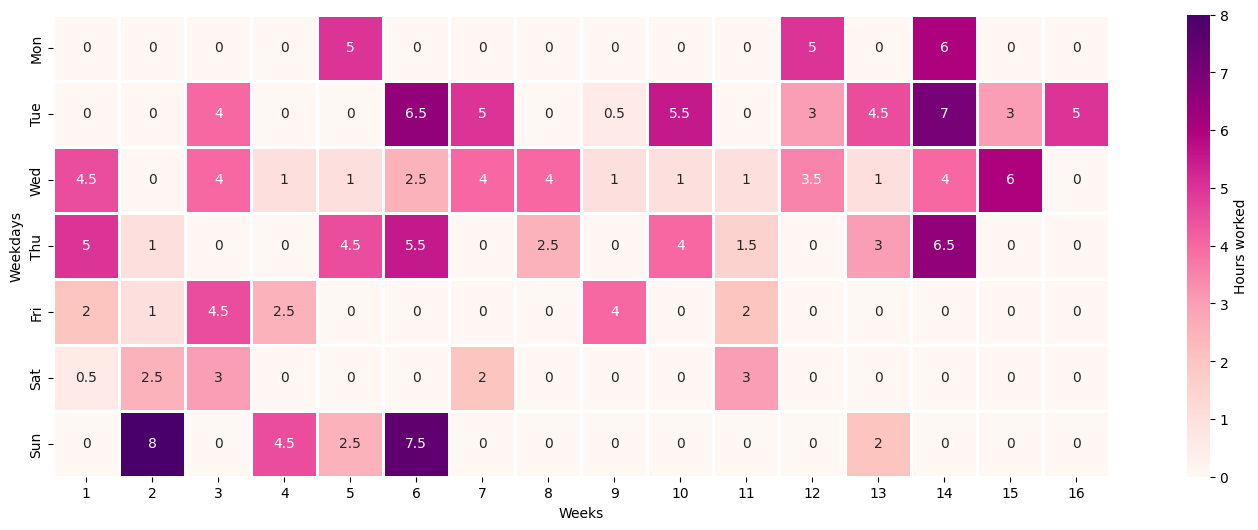
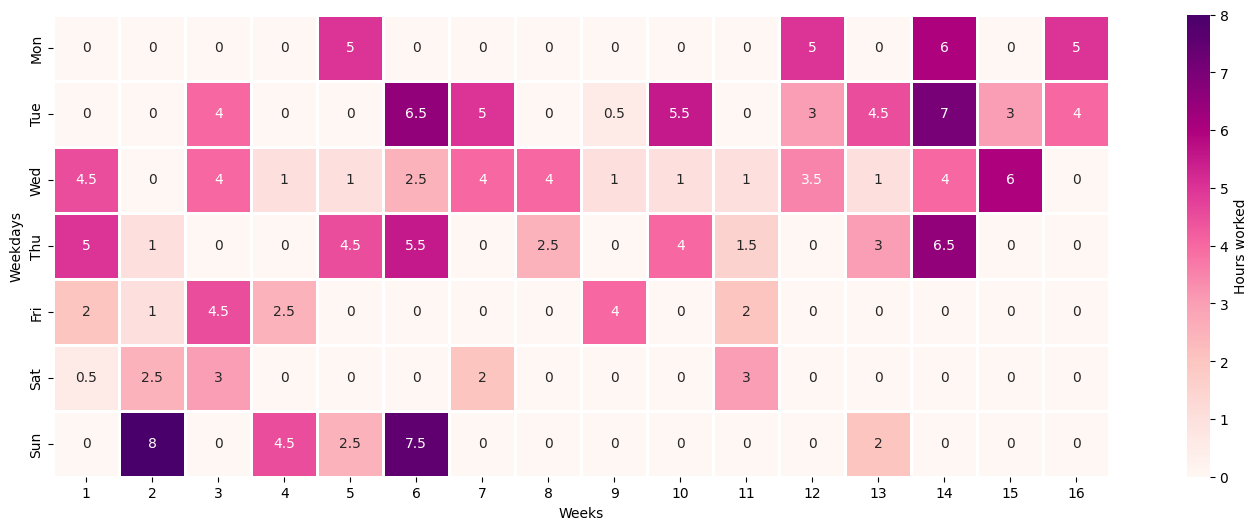
Update timelog 05/01/2022

Changed region(s): [[0.806, 0.0302, 0.899, 0.3019]]

diff --git a/timelog.md b/timelog.md
@@ -323,6 +323,12 @@
 
 ## Week 16
 
-### 4 Jan 2022
+### 3 Jan 2022
 
 * *5 hours* Wrote the mqtt background section and started the analysis of QUIC implementations. Got the binary sizes for most of the ones I need but having trouble compiling [msquic](https://github.com/microsoft/msquic).
+
+### 4 Jan 2022
+
+* *1 hours* Wrote the start of the analysis of the quic implementation.
+* *1 hours* Had to rethink the dissertation structure because it did not really flow well.
+* *2 hours* Got msquic to compile and got the binary size numbers for it, added to the corresponding section.
